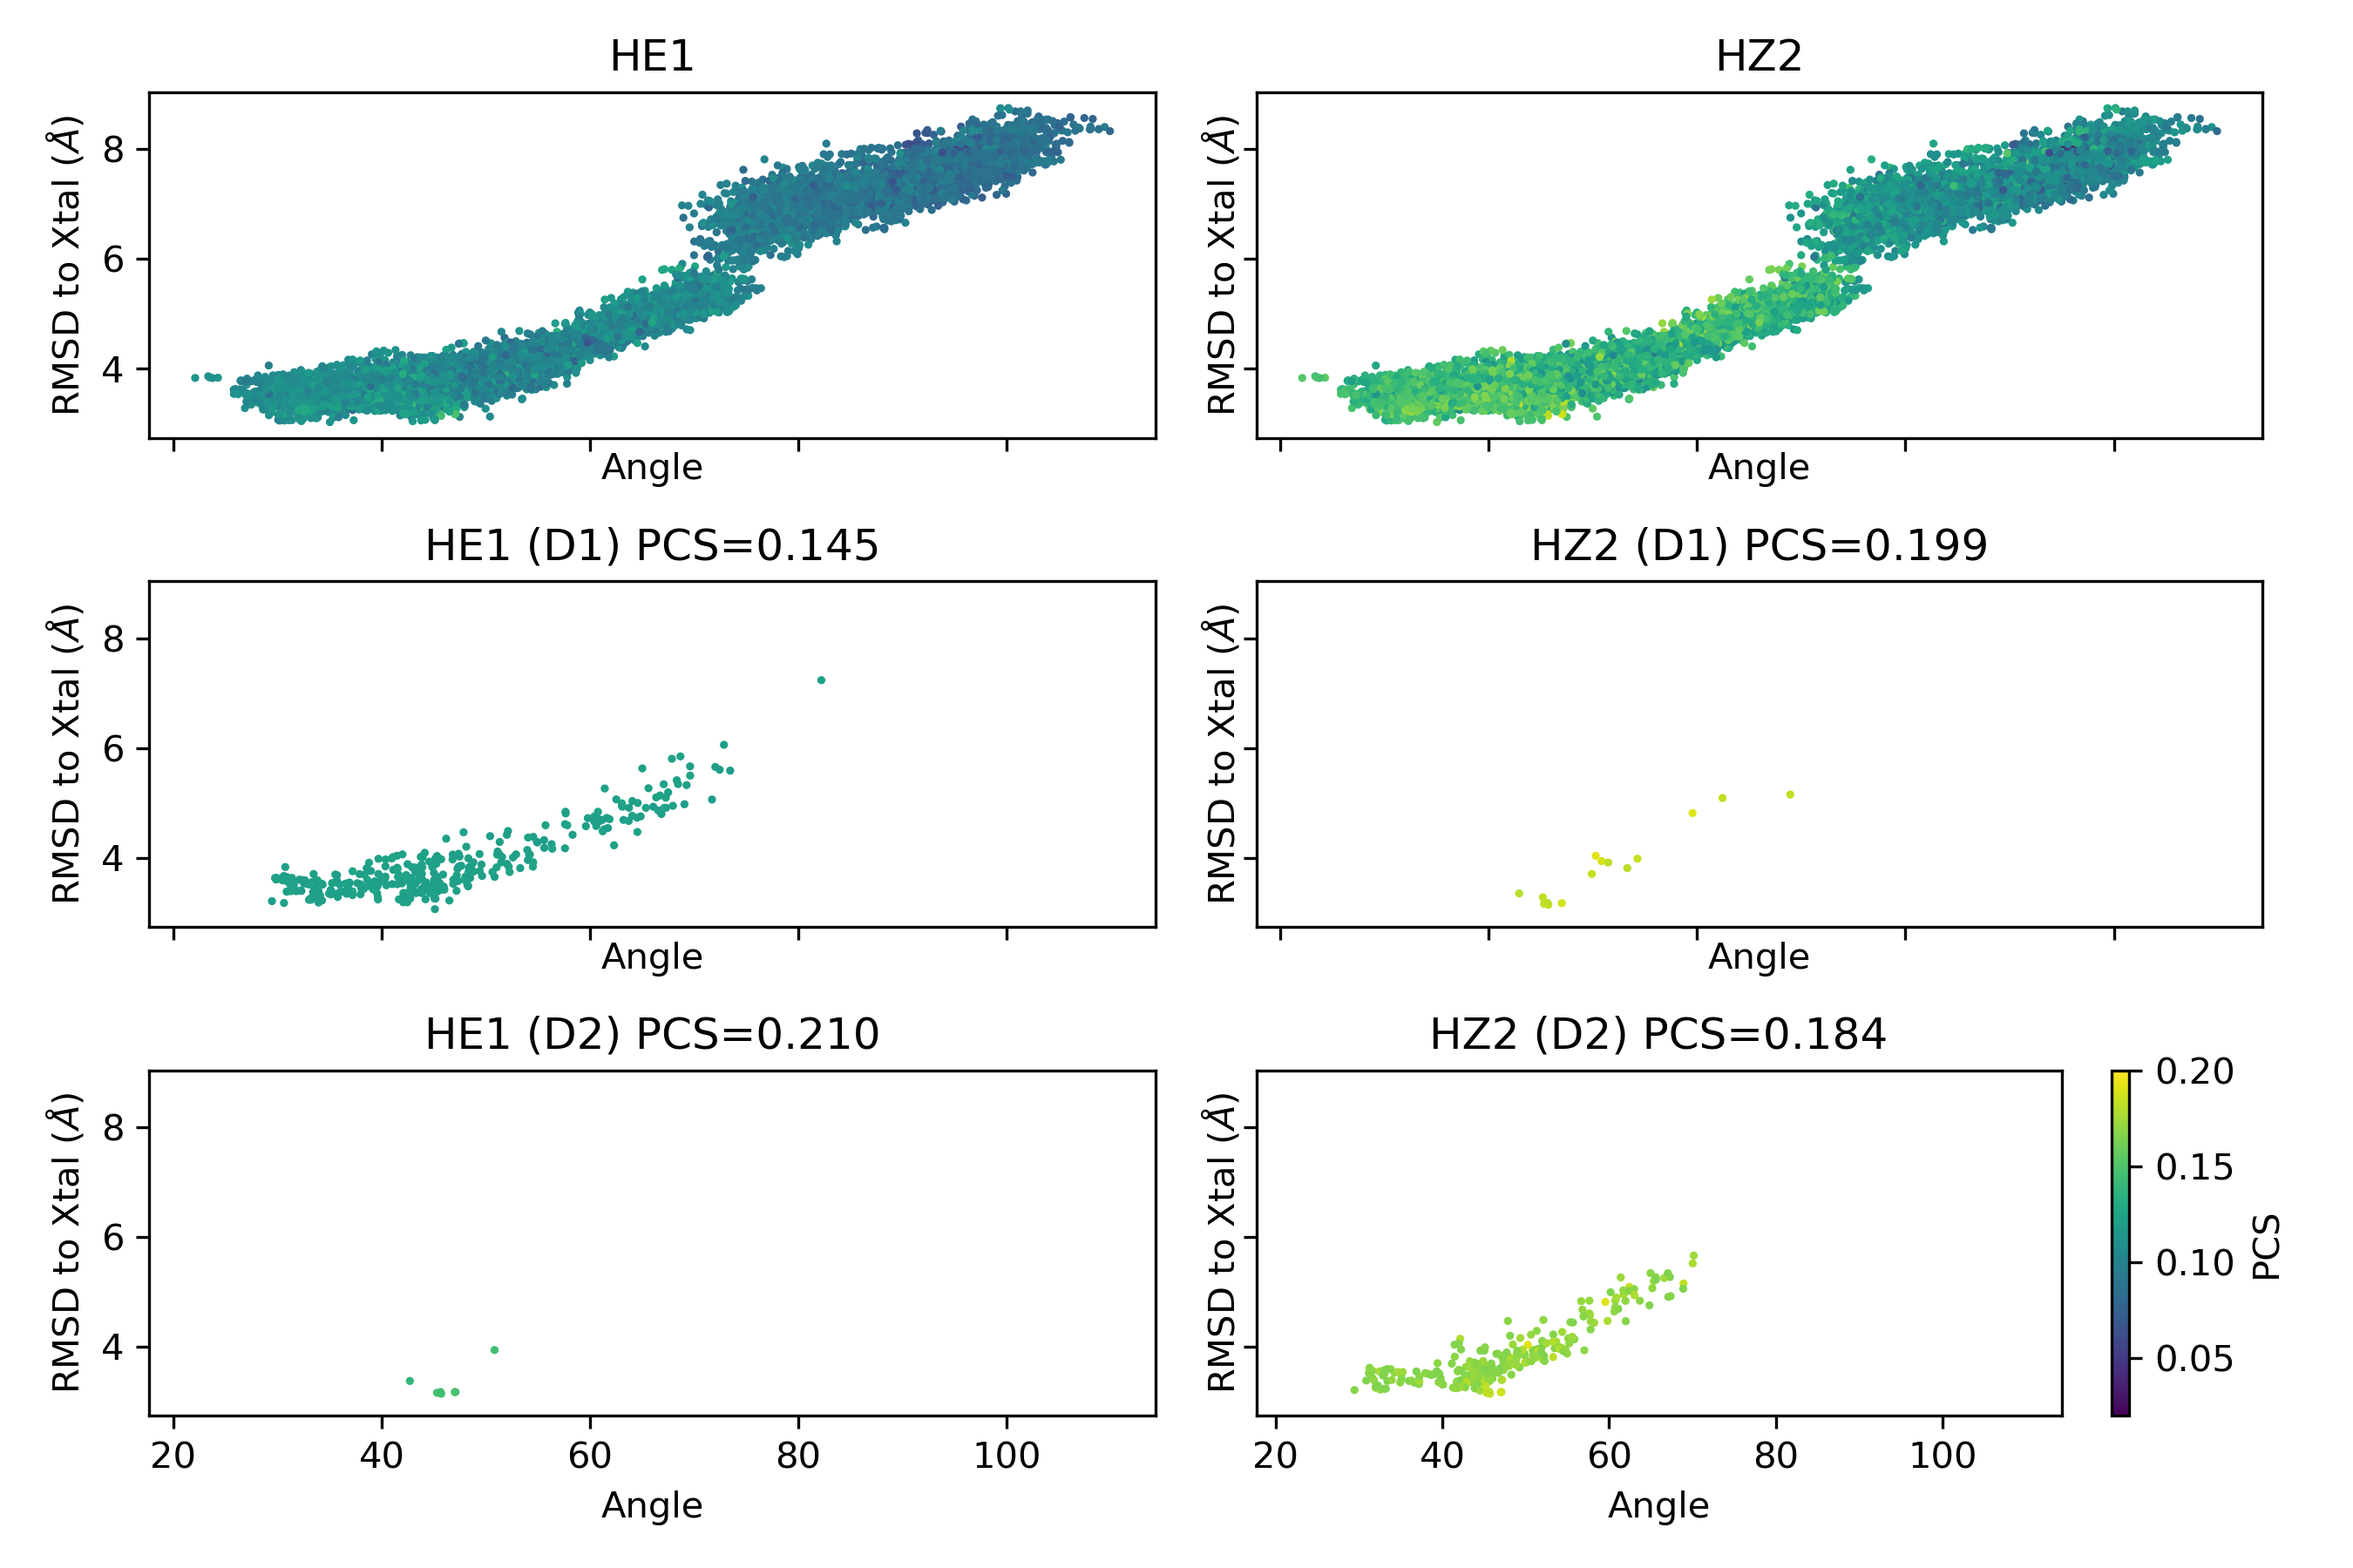
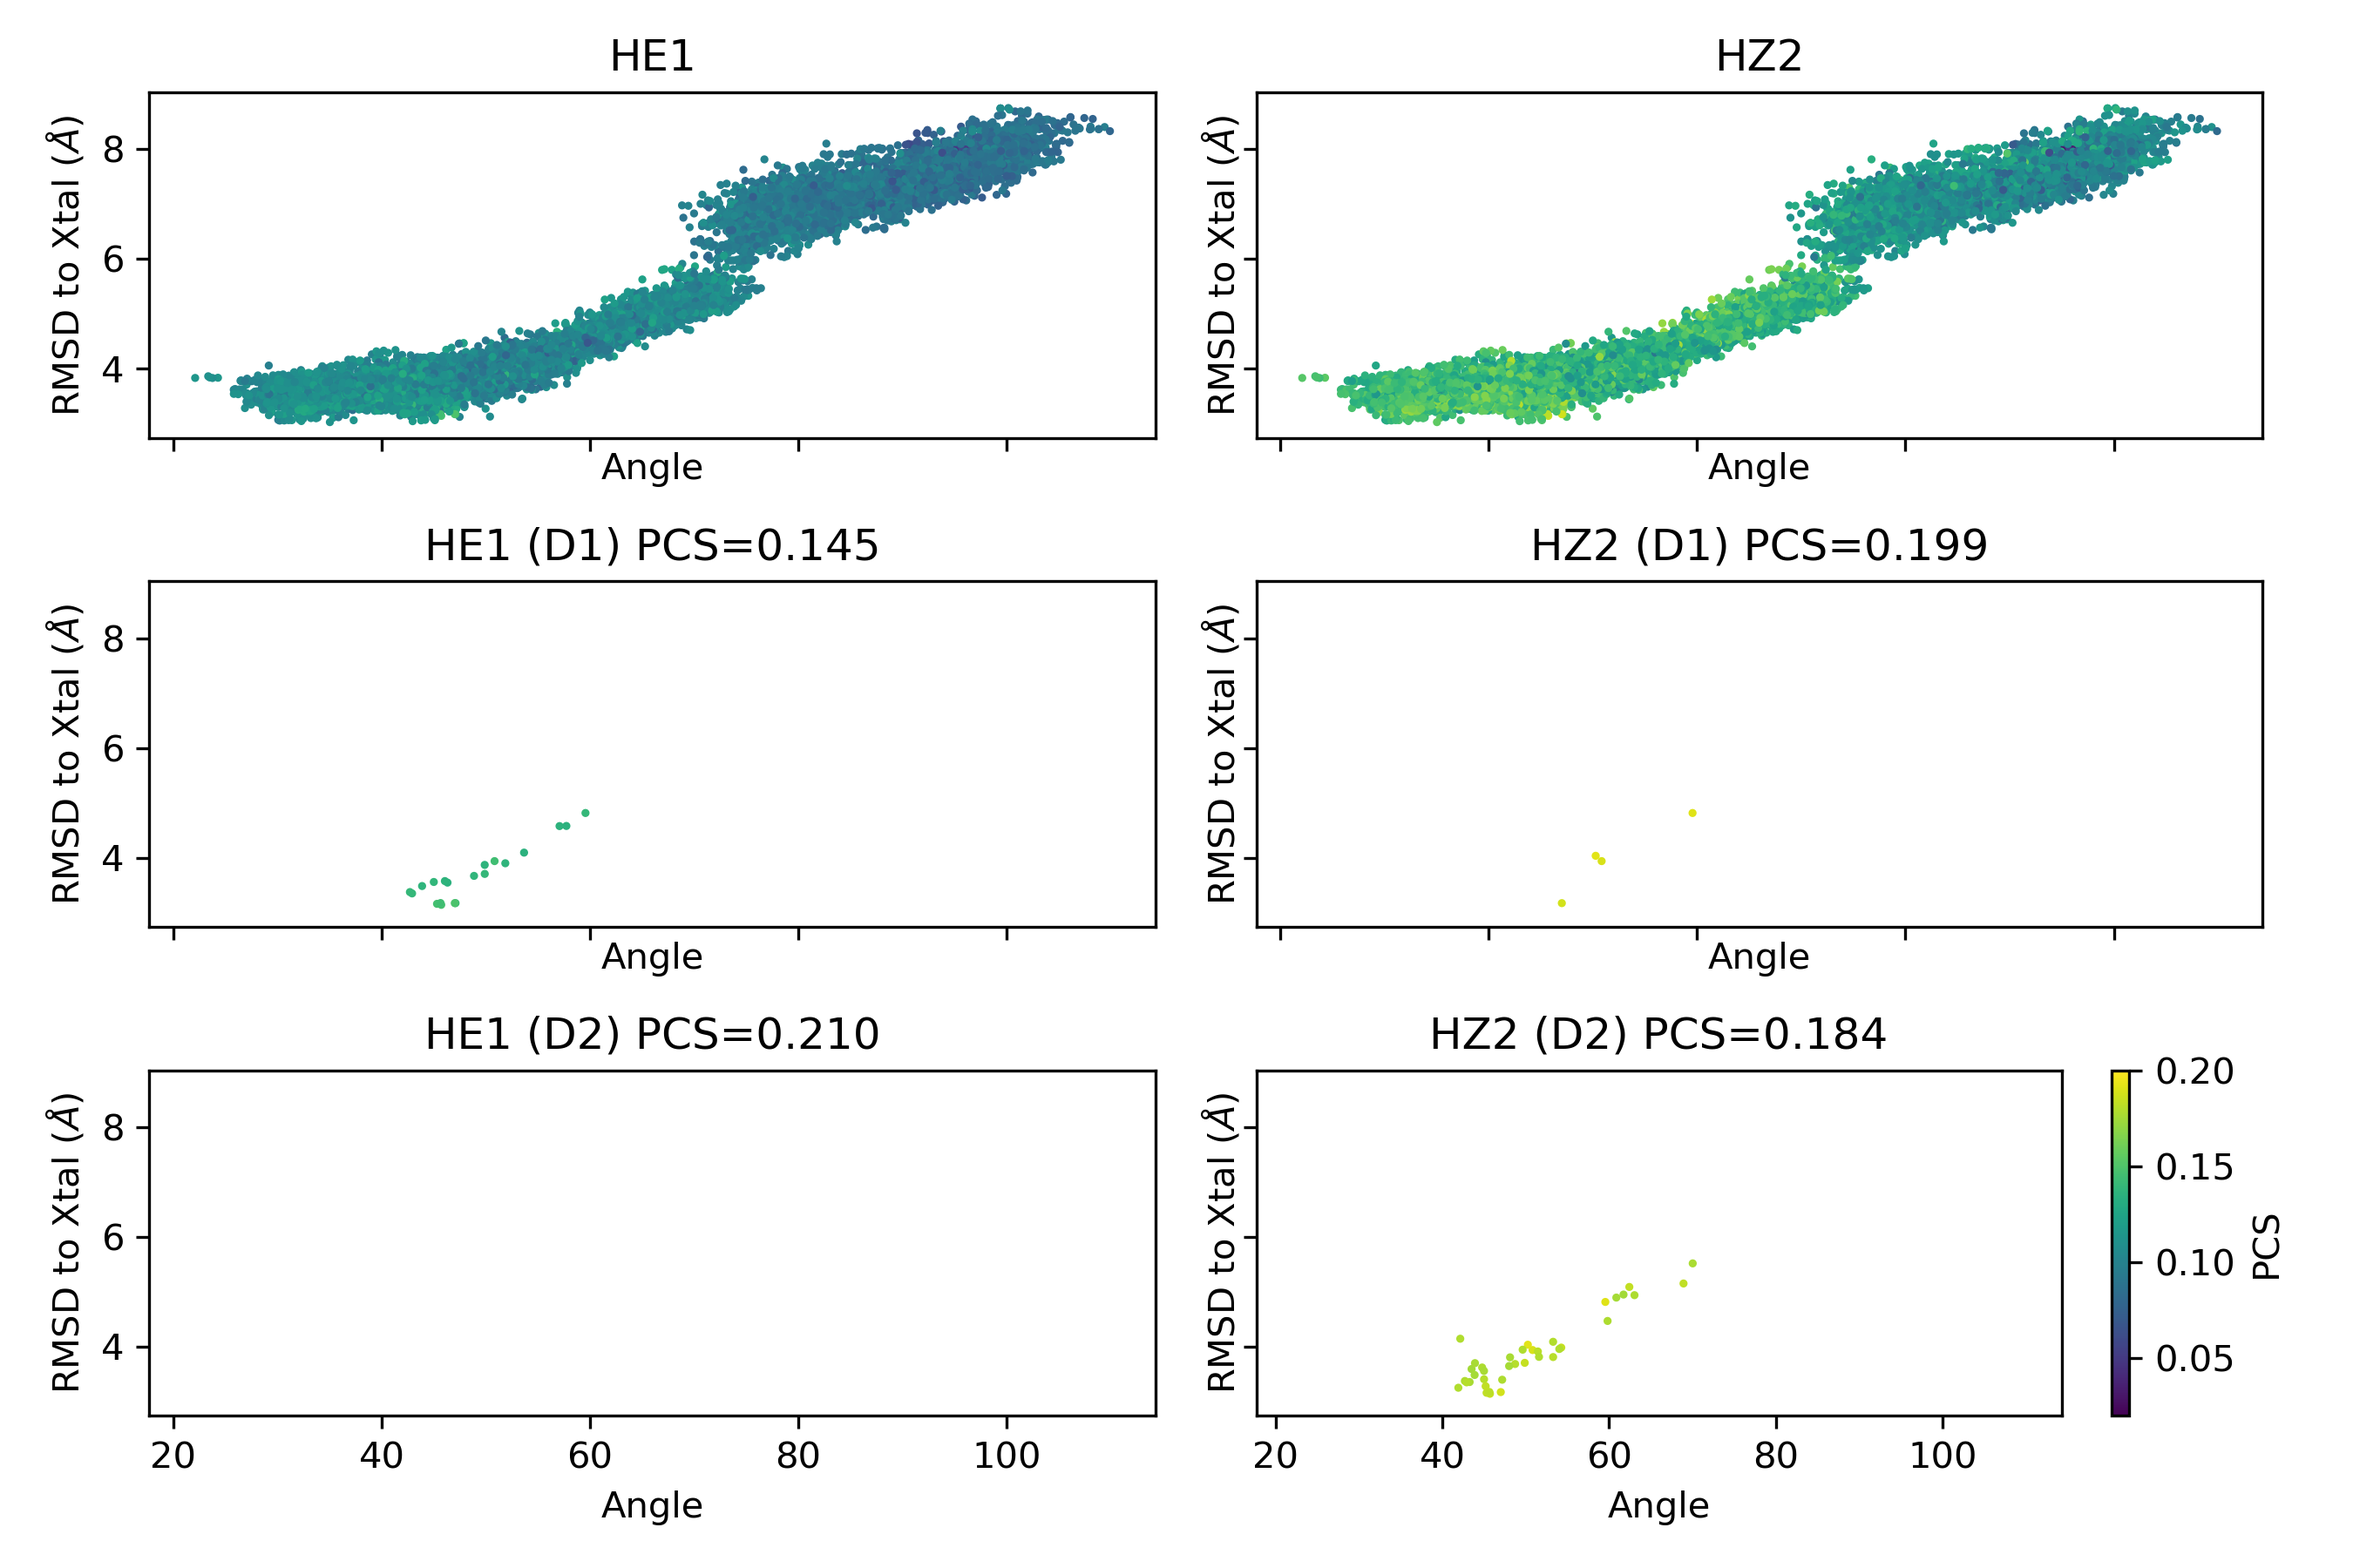
updated plot specifications

diff --git a/plot_3d.py b/plot_3d.py
@@ -62,12 +62,12 @@ scat1 = plot_3d(he1, "HE1", ax=ax[0,0])
 scat2 = plot_3d(hz2, "HZ2", ax=ax[0,1])
 
 # D1 only
-plot_3d(he1, "HE1 (D1) PCS=0.145", ax=ax[1,0], vmin=0.12, vmax=0.125, filter=True)
-plot_3d(hz2, "HZ2 (D1) PCS=0.199", ax=ax[1,1], vmin=0.18, vmax=0.22, filter=True)
+plot_3d(he1, "HE1 (D1) PCS=0.145", ax=ax[1,0], vmin=0.135, vmax=0.155, filter=True)
+plot_3d(hz2, "HZ2 (D1) PCS=0.199", ax=ax[1,1], vmin=0.185, vmax=0.215, filter=True)
 
 # D2 only
-plot_3d(he1, "HE1 (D2) PCS=0.210", ax=ax[2,0], vmin=0.14, vmax=0.23, filter=True)
-plot_3d(hz2, "HZ2 (D2) PCS=0.184", ax=ax[2,1], vmin=0.165, vmax=0.25, filter=True)
+plot_3d(he1, "HE1 (D2) PCS=0.210", ax=ax[2,0], vmin=0.195, vmax=0.225, filter=True)
+plot_3d(hz2, "HZ2 (D2) PCS=0.184", ax=ax[2,1], vmin=0.175, vmax=0.195, filter=True)
 
 cbar = plt.colorbar(scat1)
 cbar.set_label("PCS")
